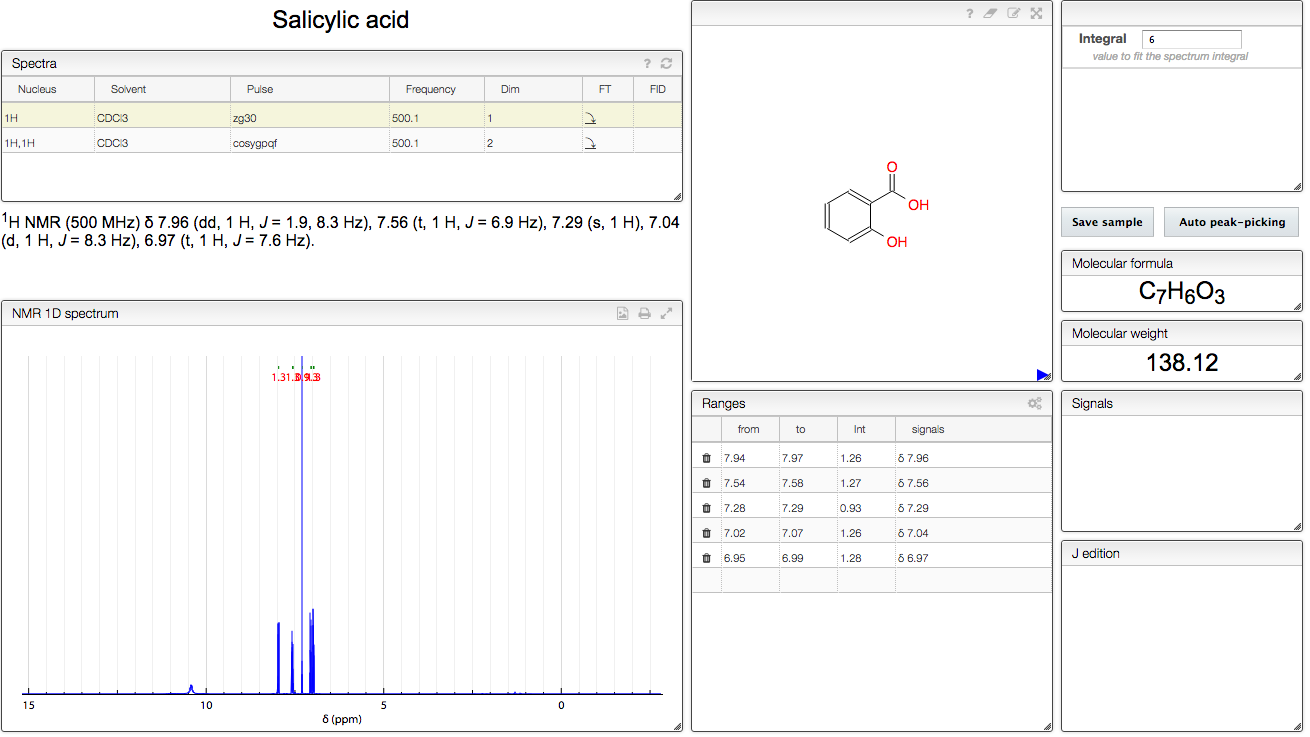
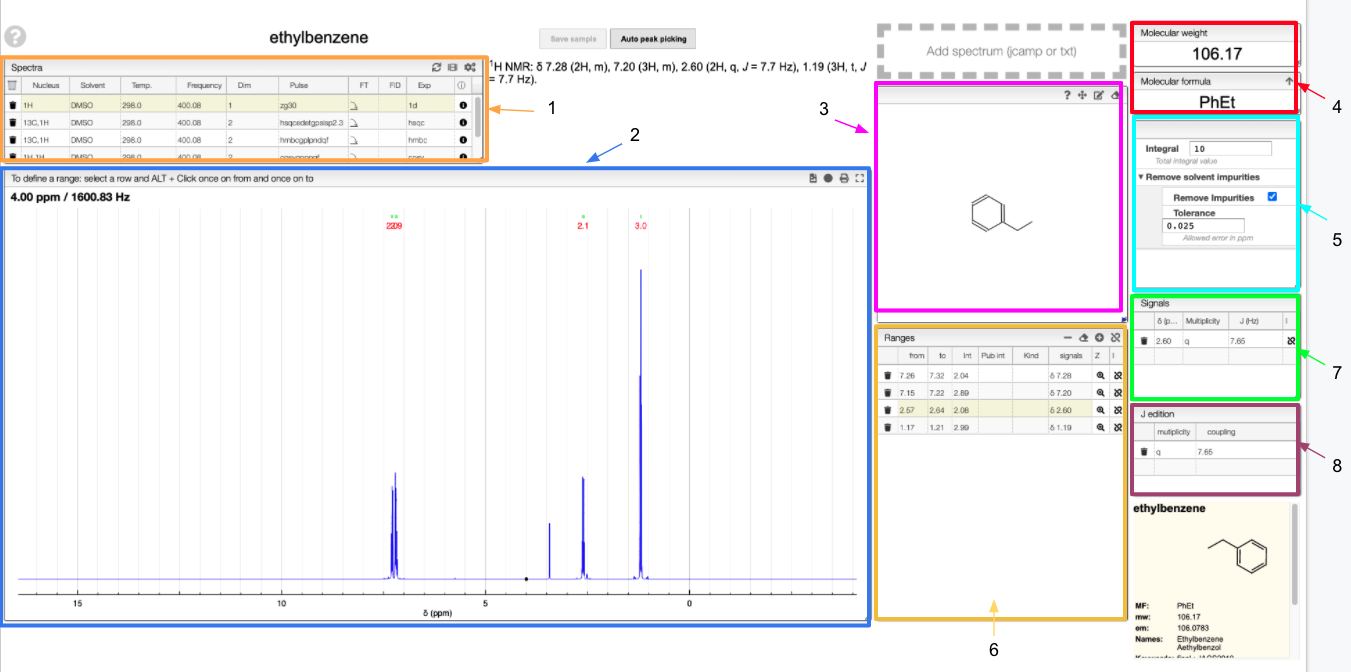
feat: modify view and assignement nmr

diff --git a/docs/30_structural_analysis/nmr/view-and-assign-nmr-spectra/README.md b/docs/30_structural_analysis/nmr/view-and-assign-nmr-spectra/README.md
@@ -1,12 +1,37 @@
 # Peak picking and assignment
 
+:::info Overview
+
 ![Peak picking image](images/peakPicking.png)
 
-As you open the tab the table will be filled with the Spectra available for the selected sample. Select one line to plot the corresponding NMR spectrum. We recommend you start from our Auto peak-picking. You will see the detected Ranges and their integrals just to the right of the spectrum. Select a range to see a list of the associated Signals with their multiplicities and coupling constants. Adjust the table values according to your own criterion. Use the J edition table to modify the multiplicity and coupling constants. A publication-ready report of your peak picking is automatically generated below the Spectra table. Don’t forget to Save your changes.
+1. List of spectra that you can visualize
+2. Spectra visualization
+3. Structure of the molecule 
+4. Information about the molecule: molecular weight and molecular formula 
+5. Parameters: you can adjust the integration and remove impurities
+6. List of signals and ranges
+7. Information about a selected signal: you can adjust the value of the chemical shift 
+8. J coupling constant edition 
 
-Integration is automatically computed upon defining the corresponding range and cannot be edited manually. You may edit the Pub int column on the Ranges table to fine-tune the integral values in the report.
+:::
 
-To assign a peak select a range in the Ranges table and then select the nuclei to be assigned in the Structure. An icon appears in the last column of the Ranges table showing that the peak has been assigned; click that icon to remove the assignment. Assigned nuclei are highlighted whenever the corresponding peak is selected in the NMR spectrum.
+As you open the tab, the `Spectra` table will be filled with the spectra available for the selected sample. Selecting one will plot the corresponding NMR spectrum. You may choose to pick peaks manually or automatically.
+
+:::note 
+
+We recommend to use automatic peak picking and then modify the signals, using the `Ranges`, `Signals` and `J edition` tabs to modify the spectra. Integration is automatically computed upon defining the corresponding range and cannot be edited manually. You may edit the Pub int column on the Ranges table to fine-tune the integral values in the report.
+
+:::
+
+ You will see the detected ranges and their integrals just to the right of the spectrum. Select a range to see a list of the associated peaks with their multiplicities and coupling constants. Adjust the table values (multiplicities, coupling constants and chemical shifts) according to your own criterion directly in the tabs. A publication-ready report of your peak picking is automatically generated below the Spectra table. 
+ 
+ :::caution
+ 
+ Don’t forget to Save your changes.
+
+:::
+
+To assign a peak select a range in the Ranges table and then select the nuclei to be assigned in the Structure. An icon ![icon](images/icon_assign.png) appears in the last column of the Ranges table showing that the peak has been assigned; click that icon to remove the assignment. Assigned nuclei are highlighted whenever the corresponding peak is selected in the NMR spectrum.
 
 ![peak picking](images/peakPicking.gif)
 
